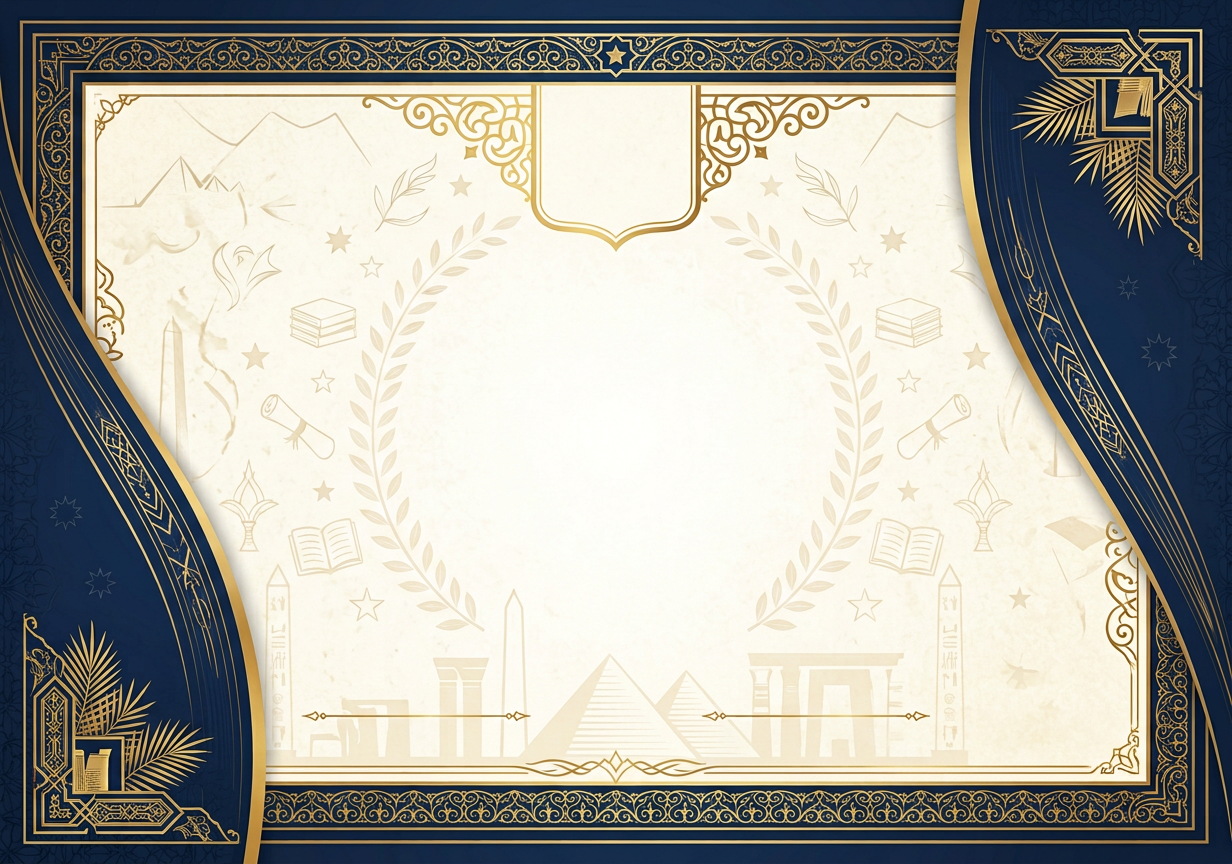
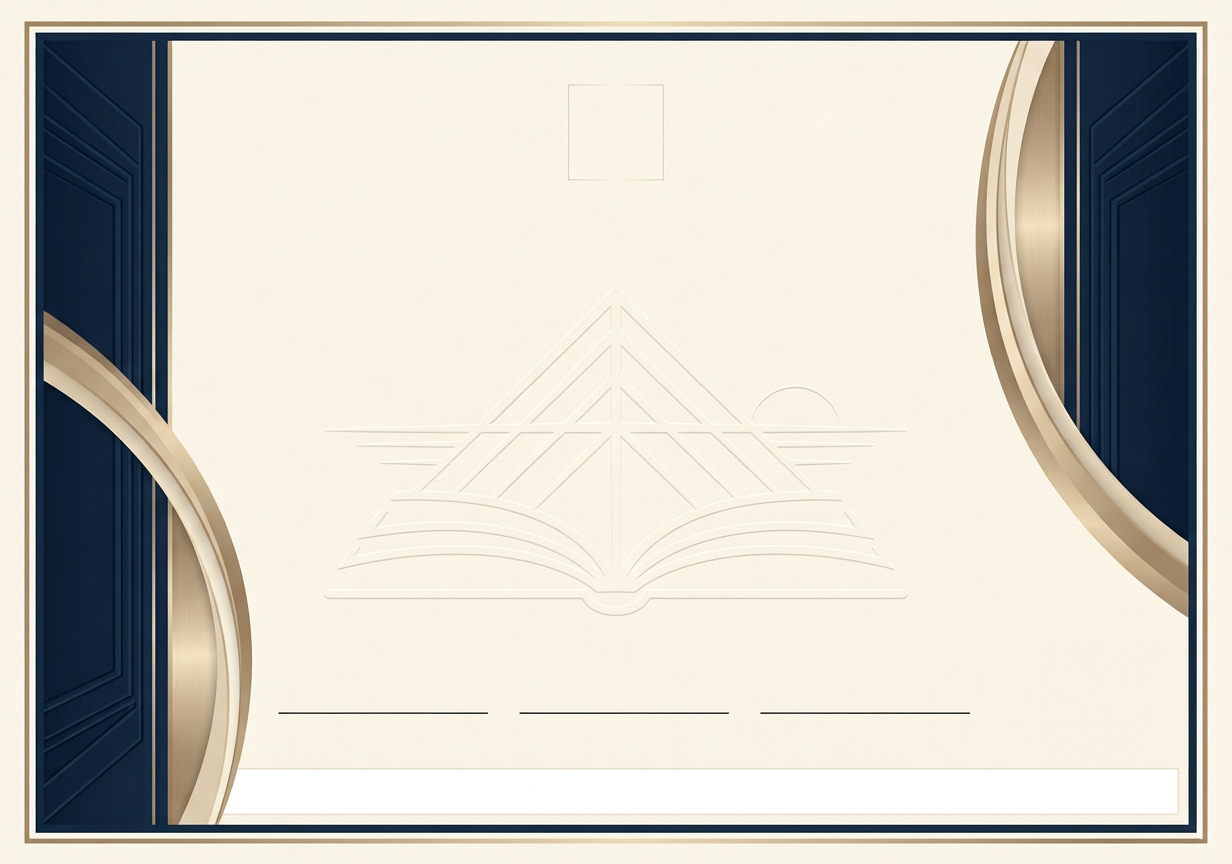
Redesign program and volunteer certificate templates

diff --git a/tamkeenova-hub_anguler/src/features/portal/student/certificates/student-certificates.component.ts b/tamkeenova-hub_anguler/src/features/portal/student/certificates/student-certificates.component.ts
@@ -40,7 +40,7 @@ export class StudentCertificatesComponent {
     const canvas = document.createElement('canvas'); canvas.width = 1800; canvas.height = 1273;
     const ctx = canvas.getContext('2d'); if (!ctx) return;
     const navy = '#004265', gold = '#be8a3f', ink = '#101e27', paper = '#fcfaf4';
-    const isArabic = language === 'ar'; const isVolunteer = cert.certificate_type === 'VOLUNTEER'; const title = (isArabic ? cert.title_ar : cert.title_en) || cert.title; const labels = isArabic ? { cert: isVolunteer ? 'شهادة تطوع' : 'شهادة إتمام', presented: 'تشهد هذه الشهادة بأن', completed: isVolunteer ? 'ساهم بنجاح في العمل التطوعي' : 'أتم بنجاح', issued: 'تاريخ الإصدار', verify: 'امسح للتحقق' } : { cert: isVolunteer ? 'Certificate of Volunteering' : 'Certificate of Completion', presented: 'This certificate is proudly presented to', completed: isVolunteer ? 'Has successfully contributed as a volunteer' : 'Has successfully completed', issued: 'Issued', verify: 'SCAN TO VERIFY' };
+    const isArabic = language === 'ar'; const isVolunteer = cert.certificate_type === 'VOLUNTEER'; const title = (isArabic ? cert.title_ar : cert.title_en) || cert.title; const labels = isArabic ? { cert: isVolunteer ? 'شهادة تقدير' : 'شهادة إتمام', presented: 'تشهد هذه الشهادة بأن', completed: isVolunteer ? 'تقديرًا لمساهمته القيّمة في العمل التطوعي' : 'تقديرًا لإتمامه البرنامج التدريبي بنجاح', issued: 'تاريخ الإصدار', hours: 'ساعات التدريب', id: 'رقم الشهادة', verify: 'امسح للتحقق', partnership: 'بالشراكة مع', organization: 'تمكينوفا', tagline: 'التمكين • التدريب • الأثر' } : { cert: isVolunteer ? 'CERTIFICATE OF APPRECIATION' : 'CERTIFICATE OF COMPLETION', presented: 'This certificate is proudly presented to', completed: isVolunteer ? 'In recognition of valuable contribution to volunteer work' : 'In recognition of successful completion of the training program', issued: 'ISSUE DATE', hours: 'TRAINING HOURS', id: 'CERTIFICATE ID', verify: 'SCAN TO VERIFY', partnership: 'IN PARTNERSHIP WITH', organization: 'TAMKEENOVA', tagline: 'EMPOWERMENT  •  TRAINING  •  IMPACT' };
     ctx.direction = isArabic ? 'rtl' : 'ltr';
     const backgroundPath = cert.certificate_type === 'VOLUNTEER' ? '/images/certificate-volunteer-bg.png' : '/images/certificate-program-bg.png';
     try { ctx.drawImage(await this.loadImage(backgroundPath), 0, 0, 1800, 1273); } catch { ctx.fillStyle = paper; ctx.fillRect(0, 0, 1800, 1273); }
@@ -50,23 +50,27 @@ export class StudentCertificatesComponent {
     ctx.textAlign = 'center';
     // Brand mark + identity
     try { const logo = await this.loadImage('/images/logo.svg'); ctx.drawImage(logo, 845, 155, 110, 110); } catch {}
-    ctx.fillStyle = navy; ctx.font = 'bold 30px Arial'; ctx.fillText('TAMKEENOVA', 900, 292);
-    ctx.fillStyle = gold; ctx.font = '18px Arial'; ctx.fillText('EMPOWERMENT  •  TRAINING  •  IMPACT', 900, 325);
+    ctx.fillStyle = navy; ctx.font = 'bold 30px Arial'; ctx.fillText(labels.organization, 900, 292);
+    ctx.fillStyle = gold; ctx.font = '18px Arial'; ctx.fillText(labels.tagline, 900, 325);
     ctx.fillStyle = ink; ctx.font = 'bold 60px Georgia, serif'; ctx.fillText(labels.cert, 900, 445);
-    ctx.fillStyle = gold; ctx.font = 'bold 22px Arial'; ctx.fillText(labels.completed, 900, 495);
+    ctx.fillStyle = gold; ctx.font = 'bold 21px Arial'; ctx.fillText(isVolunteer ? (isArabic ? 'تقديرًا للعطاء والمشاركة المجتمعية' : 'VOLUNTEER RECOGNITION') : (isArabic ? 'برنامج تدريب وتطوير مهني' : 'PROFESSIONAL DEVELOPMENT PROGRAM'), 900, 495);
     ctx.fillStyle = '#69757a'; ctx.font = '25px Arial'; ctx.fillText(labels.presented, 900, 570);
     ctx.fillStyle = navy; ctx.font = 'bold 62px Georgia, serif'; ctx.fillText(cert.users?.full_name || title, 900, 670);
     ctx.strokeStyle = gold; ctx.lineWidth = 2; ctx.beginPath(); ctx.moveTo(560, 700); ctx.lineTo(1240, 700); ctx.stroke();
     ctx.fillStyle = ink; ctx.font = 'bold 32px Arial'; ctx.fillText(title, 900, 770);
     ctx.fillStyle = '#69757a'; ctx.font = '22px Arial';
-    ctx.fillText(isArabic ? (isVolunteer ? 'تقديرًا لمساهمته القيّمة في خدمة المجتمع والعمل التطوعي' : 'تقديرًا لإتمامه البرنامج التدريبي بنجاح') : (isVolunteer ? 'In recognition of valuable contribution to the community and volunteer work' : 'In recognition of successful completion of the training program'), 900, 820);
-    ctx.font = '20px Arial'; ctx.fillText(isArabic ? 'نتمنى له دوام النجاح والتقدم' : 'We wish continued success and achievement', 900, 855);
-    ctx.font = '20px Arial'; ctx.fillText(`${labels.issued} ${new Date(cert.issued_at).toLocaleDateString()}   |   Verification code: ${cert.verification_code}`, 900, 895);
+    ctx.fillText(labels.completed, 900, 820);
+    ctx.font = '20px Arial'; ctx.fillText(isArabic ? 'مع أطيب التمنيات بدوام النجاح والتقدم' : 'We wish continued success and achievement', 900, 855);
+    // Formal information blocks: only the certificate data is dynamic; all labels are part of the artwork.
+    ctx.strokeStyle = '#d8b777'; ctx.lineWidth = 1; ctx.beginPath(); ctx.moveTo(280, 890); ctx.lineTo(1170, 890); ctx.stroke();
+    ctx.fillStyle = gold; ctx.font = 'bold 15px Arial'; ctx.fillText(labels.hours, 430, 925); ctx.fillText(labels.issued, 720, 925); ctx.fillText(labels.id, 1010, 925);
+    ctx.fillStyle = navy; ctx.font = 'bold 21px Arial'; ctx.fillText(`${cert.training_hours ?? 0} ${isArabic ? 'ساعة' : 'Hours'}`, 430, 955); ctx.fillText(new Date(cert.issued_at).toLocaleDateString(isArabic ? 'ar-EG' : 'en-GB'), 720, 955); ctx.fillText(cert.verification_code, 1010, 955);
+    ctx.fillStyle = '#69757a'; ctx.font = '15px Arial'; ctx.fillText(isArabic ? 'وثيقة رسمية قابلة للتحقق' : 'Officially verifiable certificate', 900, 985);
     ctx.strokeStyle = gold; ctx.lineWidth = 2; ctx.beginPath(); ctx.moveTo(350, 1018); ctx.lineTo(650, 1018); ctx.moveTo(1050, 1018); ctx.lineTo(1350, 1018); ctx.stroke();
     ctx.fillStyle = ink; ctx.font = 'italic 28px Georgia, serif'; ctx.fillText(isArabic ? 'إدارة تمكينوفا' : 'Tamkeenova Management', 500, 1005); ctx.fillText(isArabic ? 'ممثل الشركاء' : 'Partner Representative', 1200, 1005);
     ctx.fillStyle = '#69757a'; ctx.font = '17px Arial'; ctx.fillText(isArabic ? 'الجهة المانحة' : 'Issuing Organization', 500, 1050); ctx.fillText(isArabic ? 'شركاء النجاح' : 'Success Partners', 1200, 1050);
     ctx.strokeStyle = '#d8b777'; ctx.beginPath(); ctx.moveTo(430, 1090); ctx.lineTo(1370, 1090); ctx.stroke();
-    ctx.fillStyle = gold; ctx.font = '18px Arial'; ctx.fillText(isArabic ? 'بالشراكة مع' : 'IN PARTNERSHIP WITH', 900, 1120);
+    ctx.fillStyle = gold; ctx.font = '18px Arial'; ctx.fillText(labels.partnership, 900, 1120);
     // QR area is deliberately on a white card for reliable scanning after download/printing.
     ctx.fillStyle = '#ffffff'; ctx.fillRect(1330, 905, 205, 205); ctx.strokeStyle = gold; ctx.lineWidth = 3; ctx.strokeRect(1330, 905, 205, 205);
     const verifyUrl = `${window.location.origin}/verify?code=${encodeURIComponent(cert.verification_code)}`;
